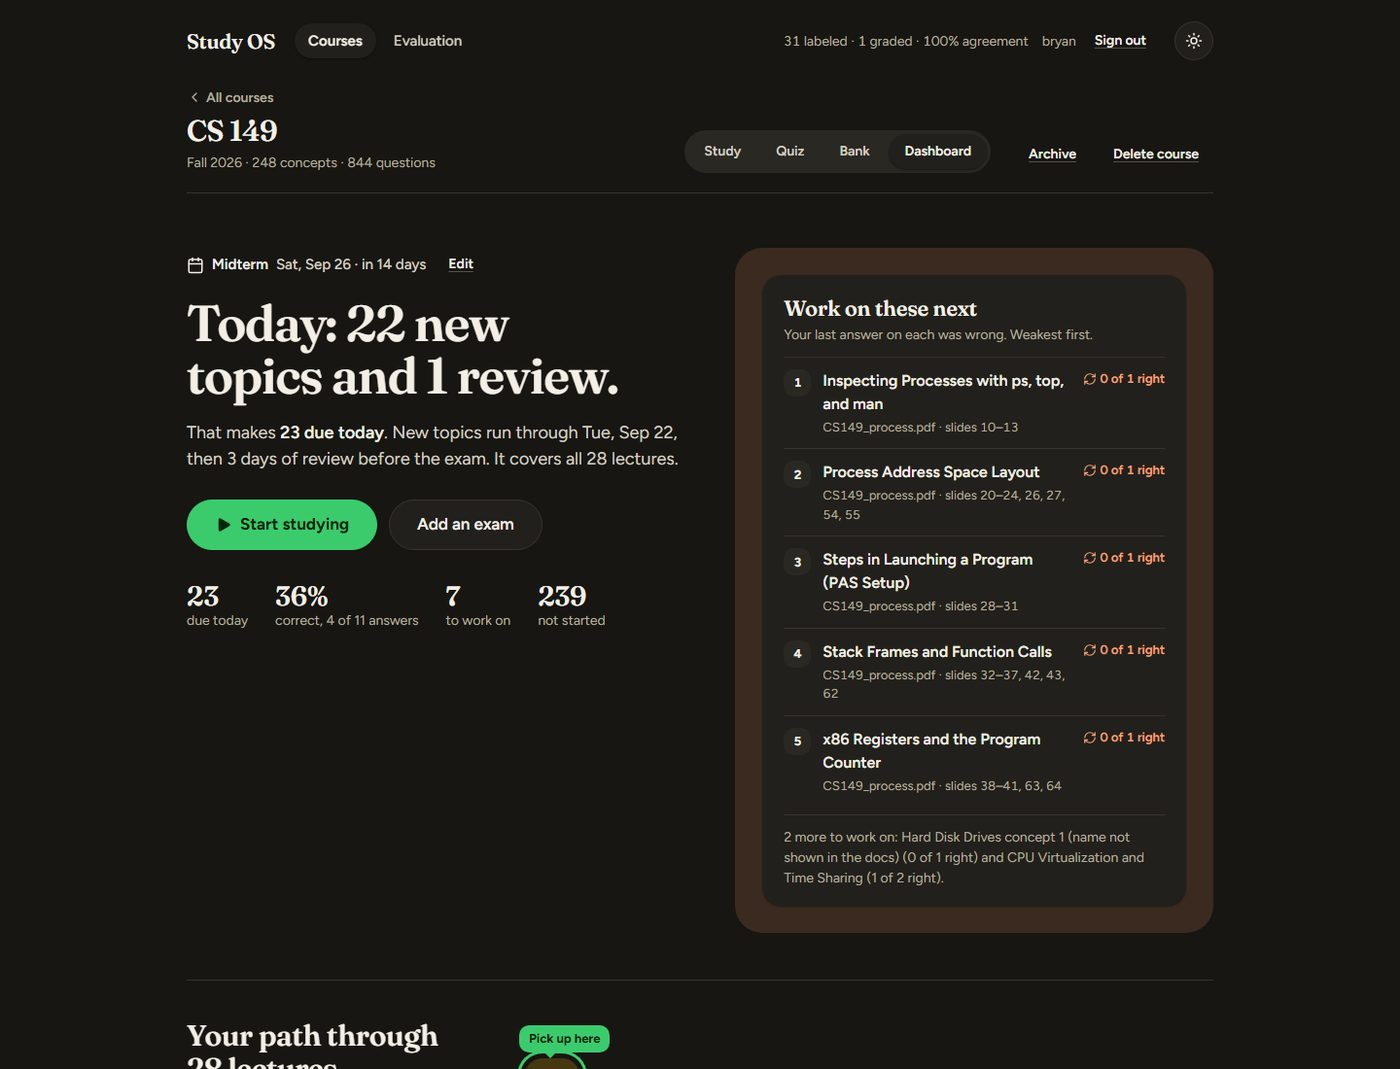
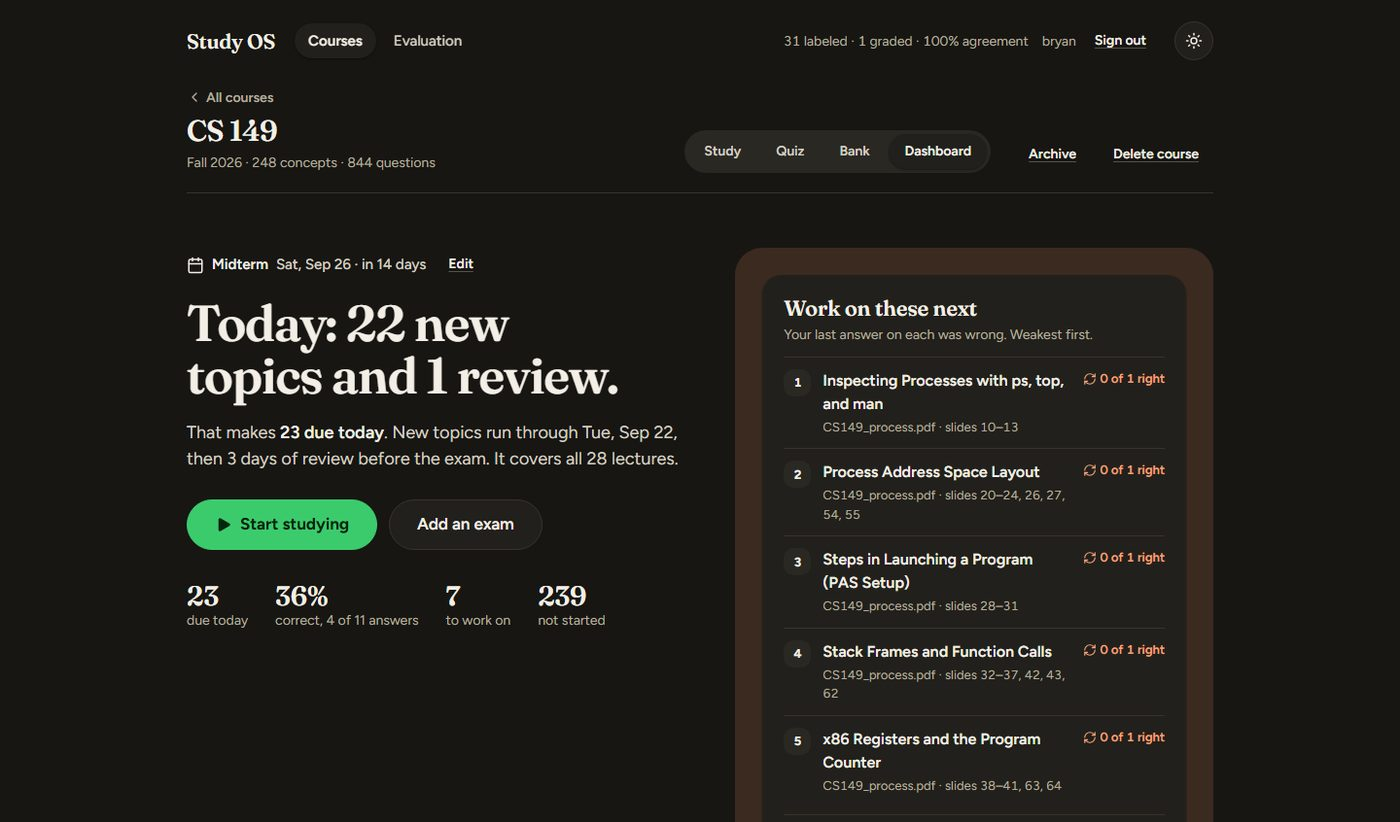
docs: keep placeholder fixture text out of the screenshots

diff --git a/README.md b/README.md
@@ -61,9 +61,8 @@ was bad is struck through rather than deleted, and I can put it back.*
 ![The dashboard: a midterm two weeks out, then the headline "Today: 22 new topics and 1
 review." with the line that adds it up to 23 due today, a green Start studying button,
 four small figures for due today, percent correct with the answers behind it, concepts
-to work on and concepts not started, a peach card listing the concepts whose last answer
-was wrong with their lecture and slides, and the start of a dotted path of lectures, each
-with its own icon](docs/screenshots/dashboard.jpg)
+to work on and concepts not started, and a peach card listing the concepts whose last
+answer was wrong with their lecture and slides](docs/screenshots/dashboard.jpg)
 
 *The schedule for one course. The headline is what the nearest exam's plan puts on
 today, and the line under it says how that adds up against everything due, the day new
